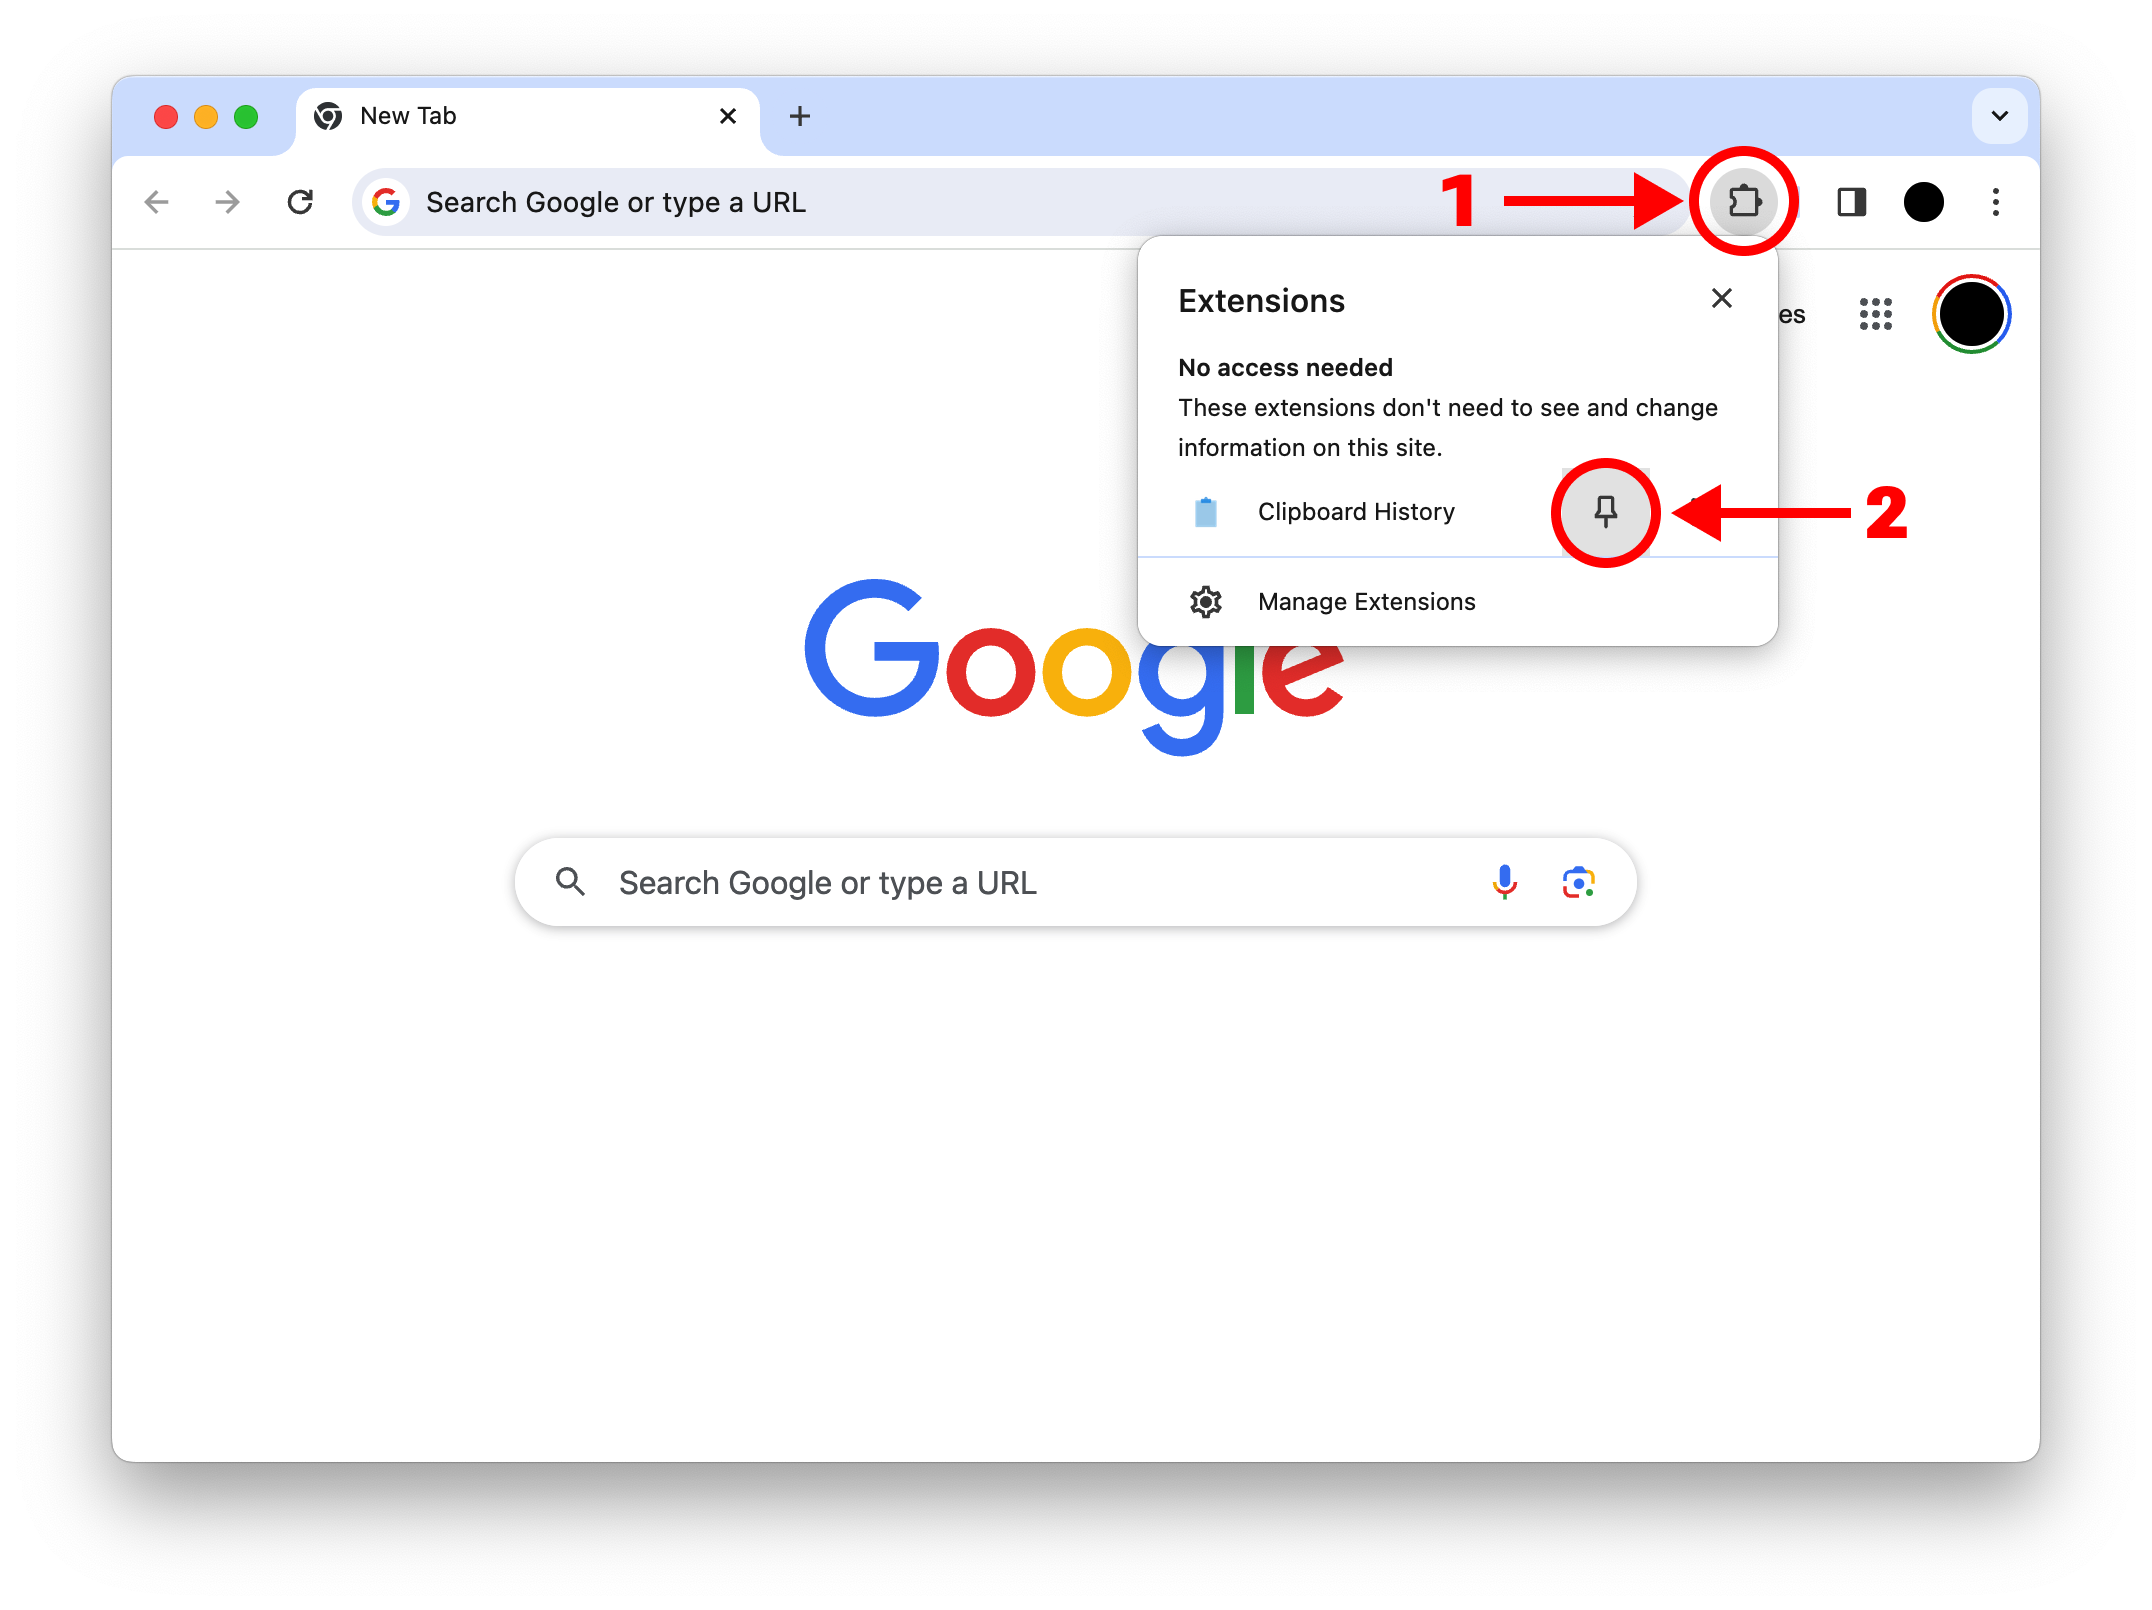
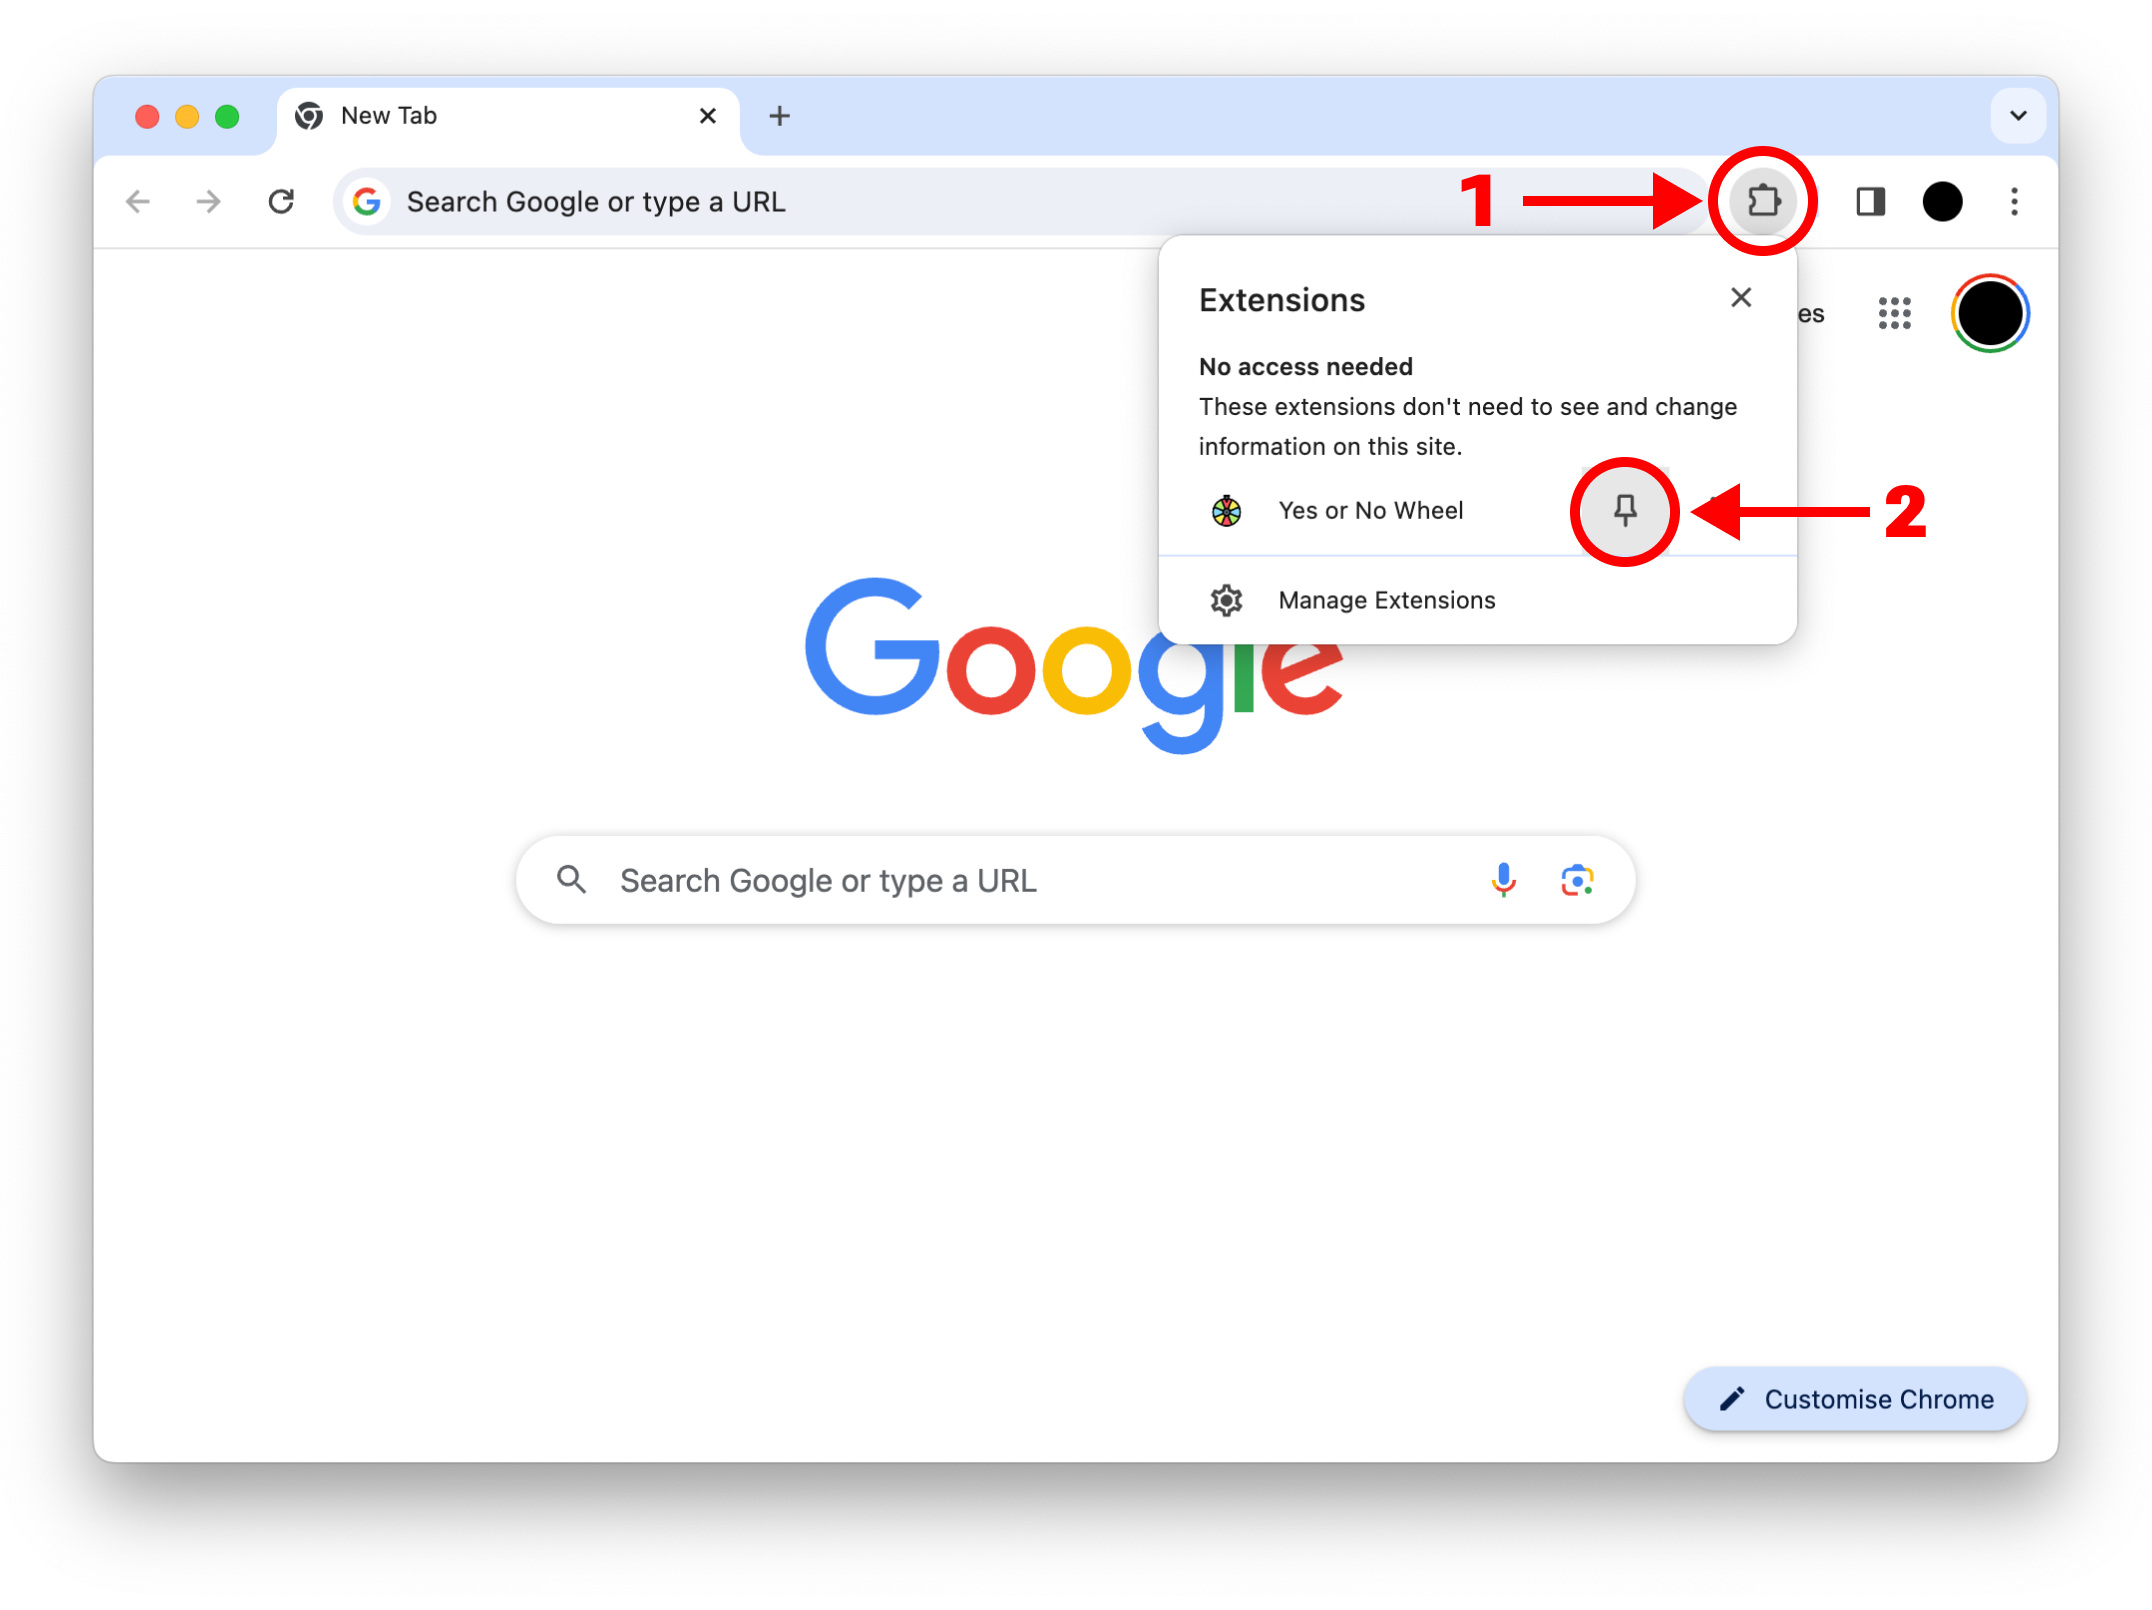
Update for yes or no

diff --git a/index.html b/index.html
@@ -3,7 +3,7 @@
 <head>
     <meta charset="UTF-8">
     <meta name="viewport" content="width=device-width, initial-scale=1.0">
-    <title>Clipboard History Welcome Guide</title>
+    <title>Yes or No Wheel Welcome Guide</title>
     <style>
         body {
             font-family: Roboto, sans-serif;
@@ -46,17 +46,16 @@
     </style>
 </head>
 <body>
-    <div class="header">Clipboard History has been installed successfully!</div>
+    <div class="header">Yes or No Wheel has been installed successfully!</div>
     <div class="instructions">
         <div class="step">
             <span class="bold">Click the puzzle piece icon (1)</span> in the top right corner of your browser. Then, <span class="bold">click the small pin icon (2)</span> next to the extension:
             <img src="images/Web_Screen1.png" alt="Steps Image 1">
         </div>
         <div class="step">
-            <span class="bold">Open the extension (3)</span> on any page to view and manage your clipboard history:
+            <span class="bold">Open the extension (3)</span> on any page and Spin the Wheel!
             <img src="images/Web_Screen2.png" alt="Steps Image 2">
         </div>
-        <div class="step">The extension will automatically keep track of all your clipboard operations — you just need to have Chrome open.</div>
     </div>
 </body>
 </html>
